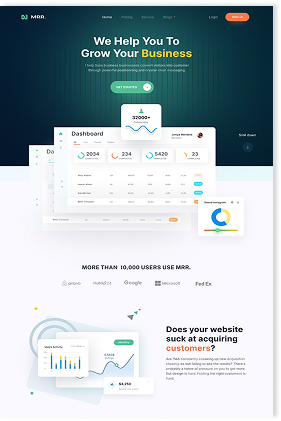
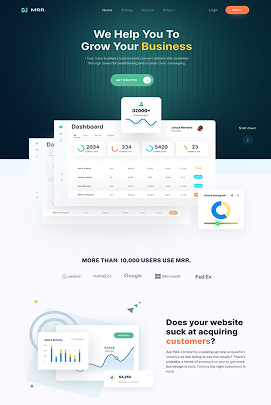
Image updated on Our Projects section

diff --git a/src/pages/home/index.js b/src/pages/home/index.js
@@ -10,7 +10,6 @@ import ProgressLine from '@/components/progressBar/progressLine';
 import OurProjects from '@/components/cards/ourProjects';
 import Image from 'next/image';
 
-
 const Homepage = () => {
   return (
     <div>
@@ -76,28 +75,32 @@ const Homepage = () => {
         {/* About Me */}
 
 
-        <section id="ourProjects" className="mb-20">
+        <section id="ourProjects" className="mb-20 w-full">
           <div className="container mb-20">
             <div className="text-center max-w-3xl mx-auto mb-10">
               <SectionTitle
                 titleText="Our"
                 orangeText="Projects"
-                titleDescription="We believe in building meaningful, results-driven digital experiences. Here are some of our recent projects that showcase our skills, creativity, and passion for technology.
-"
+                titleDescription="We believe in building meaningful, results-driven digital experiences. Here are some of our recent projects that showcase our skills, creativity, and passion for technology."
               />
             </div>
-            {jsonData.ourProjectData.map((item, index) => {
-              return (
-                <OurProjects key={index}
-                  imgName={item.projectImage}
-                  imgWidth={item.imgWidth}
-                  imgHeight={item.imgHeight}
-                  imgAlt={item.imgAlt}
-                  ctaText={item.ctaText}
-                  ctaLink={item.ctaLink}
-                />
-              )
-            })}
+            <Row>
+              {jsonData.ourProjectData.map((item, index) => {
+                return (
+                  <Col md={6} lg={4} className='mb-10 h-auto' key={index}>
+                    <OurProjects
+                      imgName={item.imgName}
+                      imgWidth={item.imgWidth}
+                      imgHeight={item.imgHeight}
+                      imgAlt={item.imgAlt}
+                      ctaText={item.ctaText}
+                      ctaLink={item.ctaLink}
+                      descText={item.descText}
+                    />
+                  </Col>
+                )
+              })}
+            </Row>
           </div>
         </section>
 

diff --git a/src/components/cards/ourProjects.js b/src/components/cards/ourProjects.js
@@ -14,22 +14,24 @@ const OurProjects = (
 ) => {
  return (
   <>
-   <div className="w-1/2 rounded-3xl relative before:absolute before:inset-0 before:bg-primary/10 before:blur-3xl before:z-[-1] group">
-    <div className="min-h-80 max-h-80 overflow-hidden group-hover:[&_img]:scale-105 [&_img]:transition-all [&_img]:duration-500 [&_img]:w-full">
-     <img src={imgName} width={imgWidth} height={imgHeight} alt={imgAlt} loading='lazy' />
+   <div className="h-full before:bg-primary/10">
+    <div className="rounded-3xl relative before:absolute before:inset-0  before:blur-3xl before:z-[-1] group h-full">
+     <div className="min-h-80 max-h-80 overflow-hidden group-hover:[&_img]:scale-105 [&_img]:transition-all [&_img]:duration-500 [&_img]:w-full">
+      <img src={imgName} width={imgWidth} height={imgHeight} alt={imgAlt} loading='lazy' />
 
-    </div>
-    {(ctaLink || descText || ctaText) &&
-     <div className="p-5 bg-white/10 [&_a]:pb-3 rounded-b-lg">
-      {ctaLink &&
-       <a href={ctaLink} className='stretched-link'>{ctaText}</a>
-      }
-      {descText &&
-       <div dangerouslySetInnerHTML={{ __html: descText }} />
-      }
      </div>
-    }
-   </div >
+     {(ctaLink || descText || ctaText) &&
+      <div className="p-5 bg-white/10 [&_a]:pb-3 rounded-b-lg">
+       {ctaLink &&
+        <a href={ctaLink} className='stretched-link'>{ctaText}</a>
+       }
+       {descText &&
+        <div dangerouslySetInnerHTML={{ __html: descText }} />
+       }
+      </div>
+     }
+    </div >
+   </div>
 
   </>
  )
